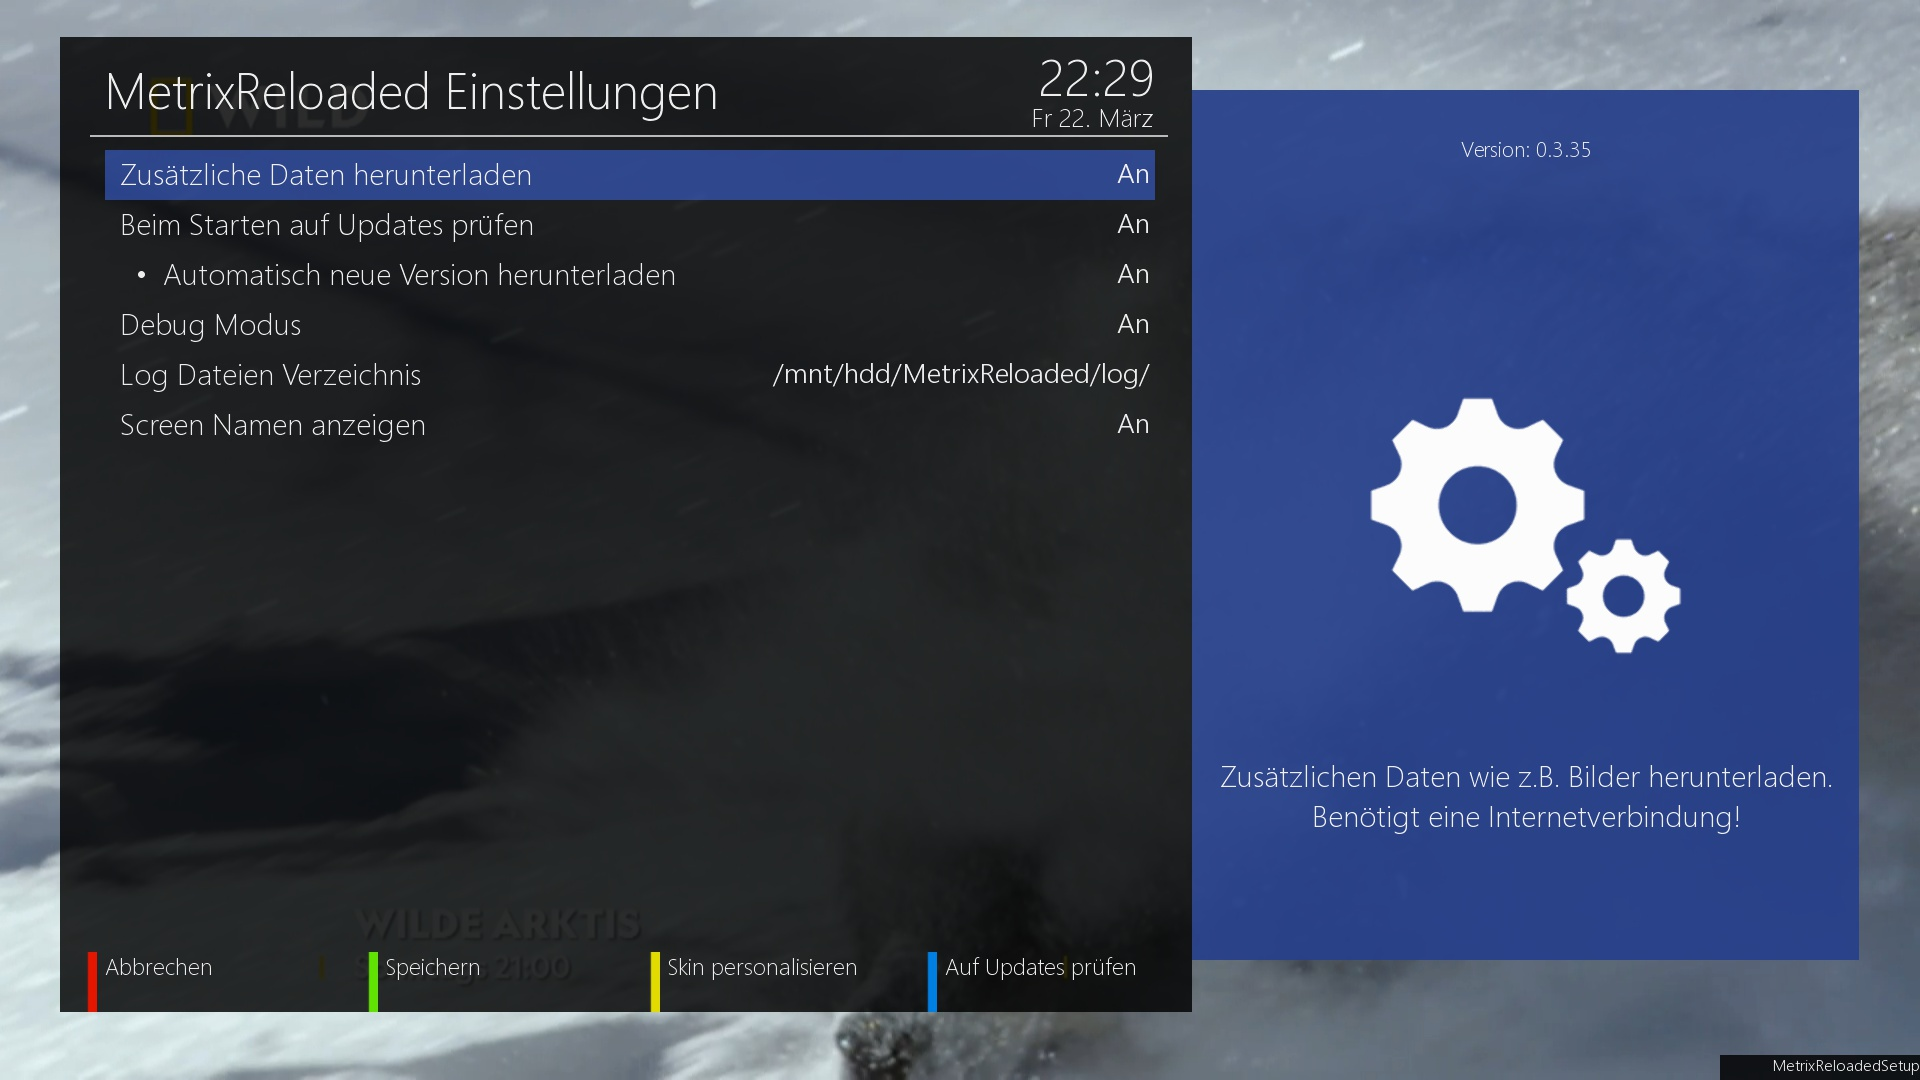
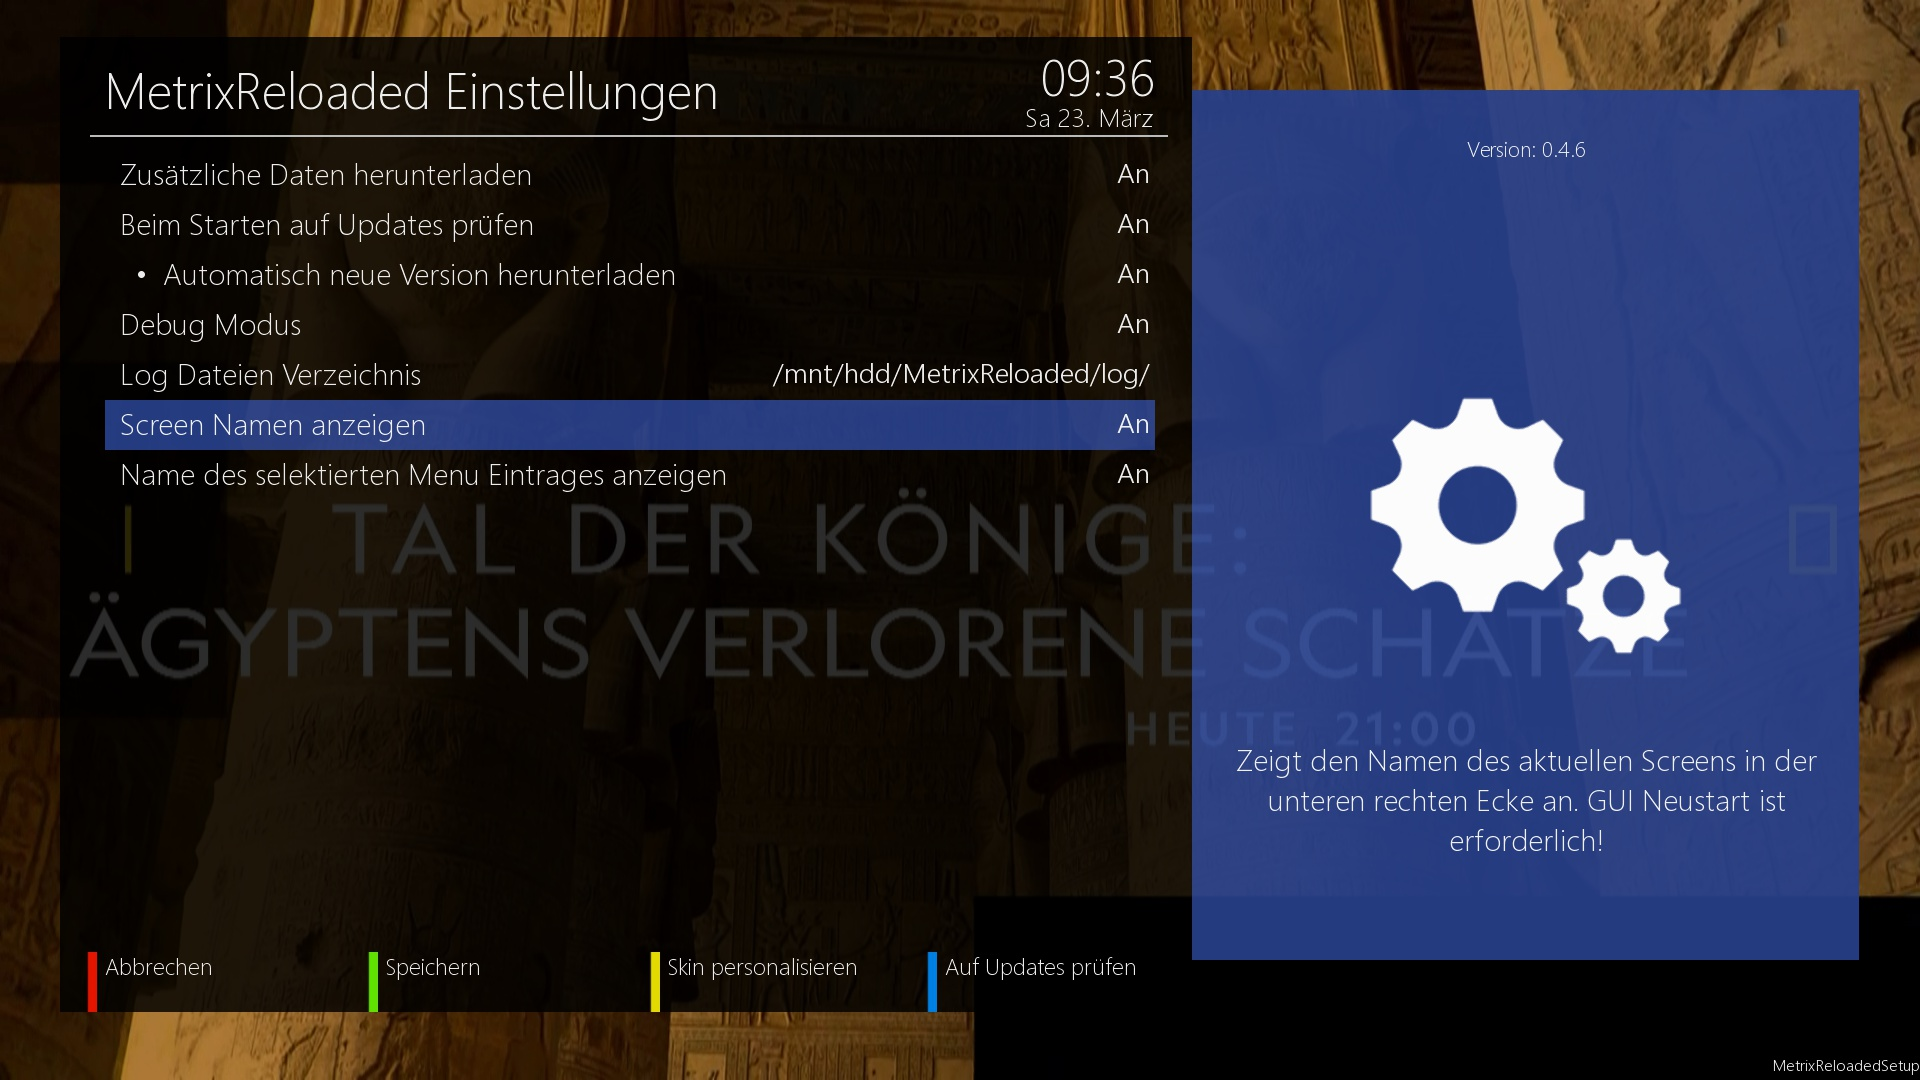
MetrixReloadedMenuEntryLabel added -> show Menu Entry Name if in MetrixReloadedSetup activated

diff --git a/lib/Plugins/Extensions/MetrixReloaded/MetrixReloadedSetup.py b/lib/Plugins/Extensions/MetrixReloaded/MetrixReloadedSetup.py
@@ -71,6 +71,8 @@ class MetrixReloadedSetup(Screen, ConfigListScreen):
                     "choose the directory where log files of skin, components, etc are stored")),
                 getConfigListEntry(_("show screen names"), config.plugins.MetrixReloaded.showScreenNames, _(
                     "Shows the name of the current screen in the bottom right corner. Requires GUI restart!")),
+                getConfigListEntry(_("show selected menu entry name"), config.plugins.MetrixReloaded.showMenuEntryNames, _(
+                    "Shows the name of the current selected menu entry. Requires GUI restart!")),
             ]
 
             ConfigListScreen.__init__(

diff --git a/lib/Plugins/Extensions/MetrixReloaded/plugin.py b/lib/Plugins/Extensions/MetrixReloaded/plugin.py
@@ -22,6 +22,7 @@ config.plugins.MetrixReloaded.autoDownloadNewVersion = ConfigOnOff(default=True)
 config.plugins.MetrixReloaded.debug = ConfigOnOff(default=False)
 config.plugins.MetrixReloaded.logDirectory = ConfigDirectory(default='/tmp/MetrixReloaded/log/')
 config.plugins.MetrixReloaded.showScreenNames = ConfigOnOff(default=False)
+config.plugins.MetrixReloaded.showMenuEntryNames = ConfigOnOff(default=False)
 
 # MyLog
 # MyLog

diff --git a/lib/Components/Converter/MetrixReloadedMenuEntryLabel.py b/lib/Components/Converter/MetrixReloadedMenuEntryLabel.py
@@ -20,7 +20,7 @@ class MetrixReloadedMenuEntryLabel(Poll,Converter,object):
 		if cur and len(cur) > 2:
 			selectedMenu = cur[2]
 		
-		if(config.plugins.MetrixReloaded.showScreenNames.value == True):
+		if(config.plugins.MetrixReloaded.showMenuEntryNames.value == True):
 			return selectedMenu
 		else:
 			return ''
